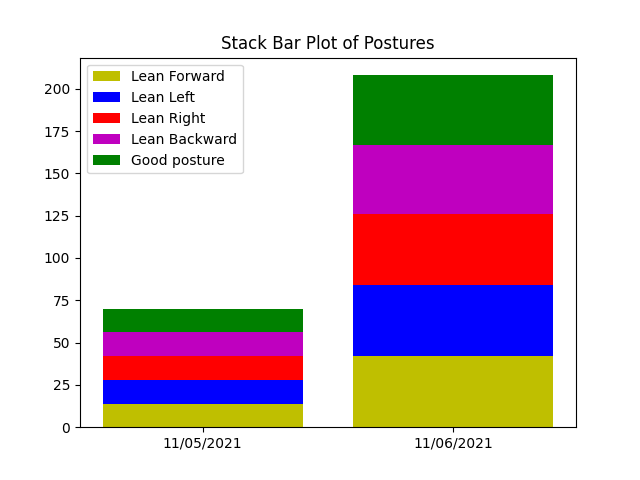
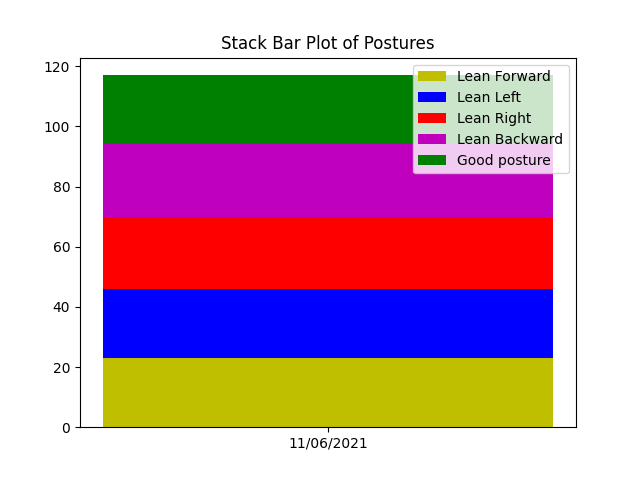
update payload for GET

diff --git a/server_database/app.py b/server_database/app.py
@@ -6,7 +6,8 @@ import datetime
 from analytics.controller import (
 	get_plot,
 	get_advice,
-	get_stack_bar_plot
+	get_stack_bar_plot,
+	STACK_BAR_PLOT_PATH
 )
 from utils.utils import get_base64string_from_img_path
 
@@ -80,56 +81,51 @@ def get_data():
 		start_time = int(request.args.get("start_time"))
 		end_time = int(request.args.get("end_time"))
 		name = str(request.args.get("name"))
-		print(start_time)
-		print(end_time)
-		print(name)
+
+		# Filter based on given params
 		entries_to_analyse = User.query.\
 			filter(User.name == name).\
 			filter(User.timecollect >= start_time).\
 			filter(User.timecollect <= end_time).\
 			all()
+
+		# If get is invalid, return empty dictionary
+		if not entries_to_analyse:
+			return {}, 200
+		
 		print(entries_to_analyse)
 		
 		list_of_datetime = [datetime.datetime.fromtimestamp(user.timecollect) for user in entries_to_analyse]
 		list_of_datetime_str = [datetime.strftime("%m/%d/%Y, %H:%M:%S") for datetime in list_of_datetime]
 		list_of_classifications = [user.classification for user in entries_to_analyse]
 
-		print(list_of_datetime)
-		print(list_of_classifications)
-
 		list_of_dates = [datetime.strftime("%m/%d/%Y") for datetime in list_of_datetime]
 		result = {}
+
+		# Creates a dictionary where key is date and values is a list of the classification in that date
 		for date, classification in zip(list_of_dates, list_of_classifications):
 			if date in result:
 				result[date].append(classification)
 			else:
 				result[date] = [classification]
 
+		# Creates a dictionary where key is date and values are count of each classification in that date
+		# Sequence of the count follows the sequence of CLASSIFICATIONS
 		for key in result:
 			result[key] = [result[key].count(classification) for classification in CLASSIFICATIONS]
 
-		print(result)
-
 		get_stack_bar_plot(result)
+		advice = get_advice(result)
 
-		# payload = {
-		# 	"img" : get_base64string_from_img_path("bar.png")
-		# }
-		# return payload, 200
-		
-		advice = get_advice(list_of_classifications, list_of_datetime)
-		print(advice)
-		#TODO: Comput the result based on start_time and end_times
-		#user_data = User.query.all()
-		# payload = {
-		# 	"img" : get_base64string_from_img_path("analytics.png"),
-		# 	"advice" : advice
-		# }
-		# print(payload)
-		# return payload
-
-		# result = {'Straight': 20, 'Lean forward': 20, 'Lean backward': 20, 'Lean right': 20, 'Lean left': 20}
-	return result, 200
+		# Sends a dict of 
+		# 1. a image in bas64 string format
+		# 2. dict where keys are dates, values are string advice for each date
+		payload = {
+			"img" : get_base64string_from_img_path(STACK_BAR_PLOT_PATH),
+			"advice" : advice
+		}
+		print(payload)
+	return payload, 200
 
 @app.route('/remove_data_all', methods = ["POST"]) 
 def remove_data_all():

diff --git a/server_database/analytics/controller.py b/server_database/analytics/controller.py
@@ -10,6 +10,9 @@ from commons.commons import (
 )
 # import calmap
 
+STACK_BAR_PLOT_TITLE = "Stack Bar Plot of Postures"
+STACK_BAR_PLOT_PATH = "bar.png"
+
 def get_plot(posture, dates):
     posture
     # Choose some nice levels
@@ -45,7 +48,7 @@ def get_plot(posture, dates):
     plt.savefig("analytics.png")
 
 '''
-Given a dict where keys are the count of the types of postures and values are list of dates
+Given a dict where keys are the dates and values are the count of the types of postures in that day
 Plot a stack bar plot
 Save it into a png
 '''
@@ -62,9 +65,9 @@ def get_stack_bar_plot(sum_dict):
     plt.bar(x, y2, bottom=sum(order[:2]), color='r')
     plt.bar(x, y3, bottom=sum(order[:3]), color='m')
     plt.bar(x, y4, bottom=sum(order[:4]), color='g')
-    plt.title("Stack Bar Plot of Postures")
+    plt.title(STACK_BAR_PLOT_TITLE)
     plt.legend([CLASSIFICATION_ENUM_TO_NAME[classification] for classification in CLASSIFICATIONS])
-    plt.savefig("bar.png")
+    plt.savefig(STACK_BAR_PLOT_PATH)
 
 # https://www.youtube.com/watch?v=cKMEL9xgq2I
 '''
@@ -78,12 +81,21 @@ Save it into a png
 #     plt.suptitle('Calendar Heatmap', y=.65, fontsize=20)
 #     plt.savefig("calmap.png")
 
-def get_advice(posture, dates):
-    count = {}
-    advice = ""
-    for classification in posture:
-        count[classification] = 1 if classification not in count.keys() else count[classification] + 1
-    
-    for classification in CLASSIFICATIONS:
-        advice += "\n[%s] : You were in this posture %.3f percent of the time!\n" % (classification, (count[classification]/len(posture)))
-    return advice
+'''
+Given a dict where keys are the dates and values are the count of the types of postures in that day
+Get the analysis of the time spent in each posture for each day
+Returns a dict
+
+Note: The dict passed in must have values where the classifation is in the same sequence as in CLASSIFICATIONS
+'''
+def get_advice(sum_dict):
+    res_dict = {}
+    classes = [CLASSIFICATION_ENUM_TO_NAME[classification] for classification in CLASSIFICATIONS]
+    # Iterate through days
+    for key, value in sum_dict.items():
+        advice = "Date: %s\n" %key
+        # For every day, iterate through the postures
+        for i in range(len(classes)):
+            advice += "[%s] : You were in this posture %.3f percent of the time!\n" % (classes[i], (value[i]/sum(value)))
+        res_dict[key] = advice
+    return res_dict

diff --git a/server_database/client.py b/server_database/client.py
@@ -25,16 +25,16 @@ def main():
         "classification": 1
     }
 
-    for i in range(10):
-        dict_to_enter = {
-            'name': "Sally",
-            'timecollect': round(int(datetime.datetime.timestamp(datetime.datetime.now() + i * datetime.timedelta(seconds=5)))), 
-            'acc_x_neck': 0.333, 
-            'acc_y_neck': 0.345, 
-            'acc_z_neck': 0.567, 
-            "classification": commons.CLASSIFICATIONS[i % len(commons.CLASSIFICATIONS)]
-        }
-        requests.put(url_add_data, params=dict_to_enter)
+    # for i in range(10):
+    #     dict_to_enter = {
+    #         'name': "Sally",
+    #         'timecollect': round(int(datetime.datetime.timestamp(datetime.datetime.now() + i * datetime.timedelta(seconds=5)))), 
+    #         'acc_x_neck': 0.333, 
+    #         'acc_y_neck': 0.345, 
+    #         'acc_z_neck': 0.567, 
+    #         "classification": commons.CLASSIFICATIONS[i % len(commons.CLASSIFICATIONS)]
+    #     }
+    #     requests.put(url_add_data, params=dict_to_enter)
 
     dict_to_enter = {
         "name" : "Sally",
